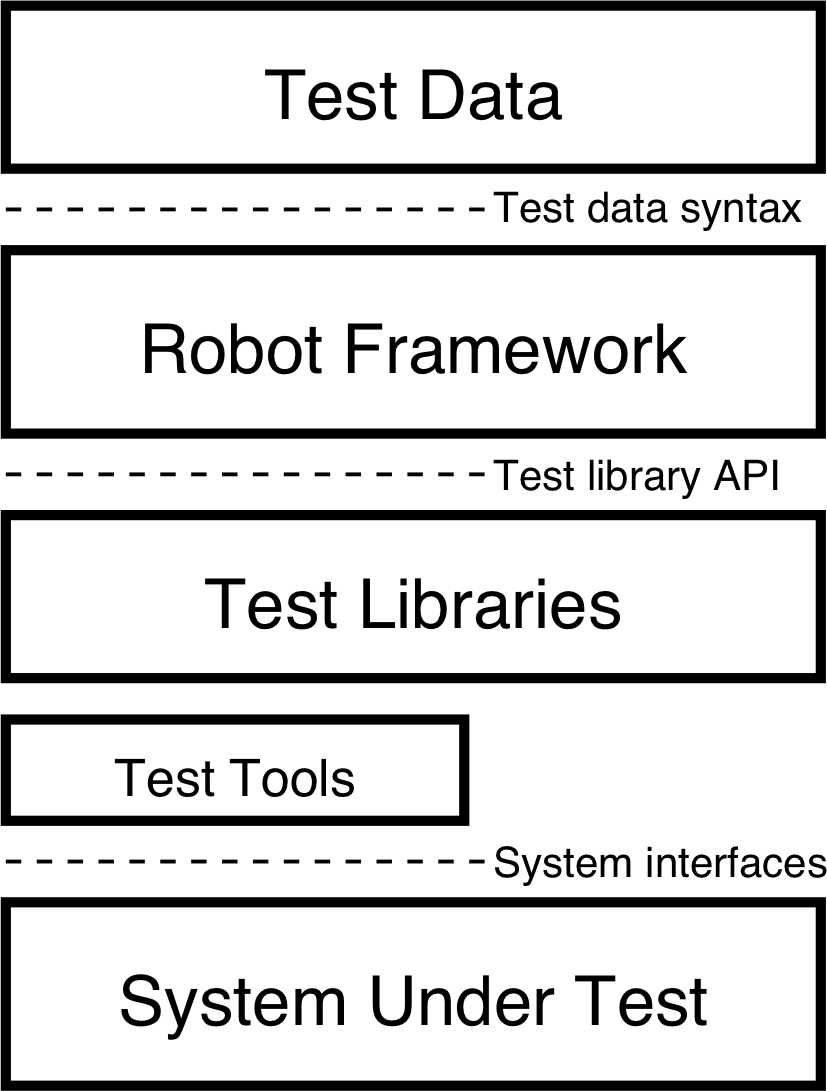
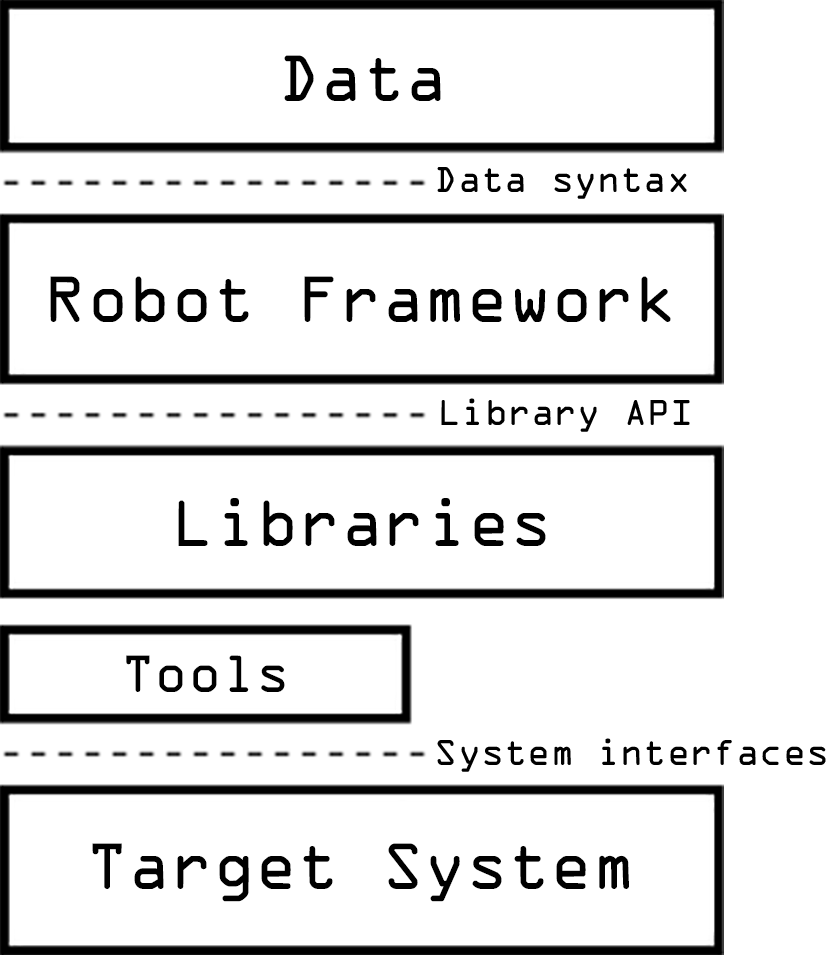
Update robotframework.org to be more about generic automation, less testing bias (#164)
* Better communicate automation, decrease bias on testing

* Use more generic terms in architecture image

* Update example description on tab click

* Update introduction section

* Name examples

* Add RPA example

* Minor edit, combine paragraphs

* Add task example description

* Remove RPA navigation link

* Fix members text alignment on large viewports

* Add consistent big architecture image

* Review updates: Less RPA bias, restore RPA link

diff --git a/sources/src/App.vue b/sources/src/App.vue
@@ -36,7 +36,7 @@ export default {
             text: {
               twitter: true,
               header: "Introduction",
-              text: '<p> <b>Robot Framework</b> is a generic open source automation framework for acceptance testing, acceptance test driven development (ATDD), and robotic process automation (RPA). It has easy-to-use tabular test data syntax and it utilizes the keyword-driven testing approach. Its testing capabilities can be extended by test libraries implemented either with Python or Java, and users can create new higher-level keywords from existing ones using the same syntax that is used for creating test cases. </p> <p> Robot Framework project is hosted on <a href="https://github.com/robotframework/robotframework" target="_blank">GitHub</a> where you can find further documentation, source code, and issue tracker. Downloads are hosted at <a href="https://pypi.python.org/pypi/robotframework" target="_blank">PyPI</a>. The framework has a rich ecosystem around it consisting of various generic <a href="#libraries">test libraries</a> and <a href="#tools">tools</a> that are developed as separate projects. </p> <p> Robot Framework is operating system and application independent. The core framework is implemented using <a href="http://python.org" target="_blank">Python</a> and runs also on <a href="http://jython.org" target="_blank">Jython</a> (JVM) and <a href="http://ironpython.net" target="_blank">IronPython</a> (.NET). </p> <p> Robot Framework itself is open source software released under <a href="http://www.apache.org/licenses/LICENSE-2.0.html" target="_blank">Apache License 2.0</a>, and most of the libraries and tools in the ecosystem are also open source. The framework was initially developed at <a href="http://networks.nokia.com" target="_blank">Nokia Networks</a> and was open sourced in 2008.</p>'
+              text: '<p> <b>Robot Framework</b> is a generic open source automation framework. It can be used for test automation and robotic process automation (RPA). <p> Robot Framework is actively supported, with many industry-leading companies using it in their software development. </p> Robot Framework is open and extensible and can be integrated with virtually any other tool to create powerful and flexible automation solutions. Being open source also means that Robot Framework is free to use without licensing costs. </p> <p> Robot Framework has easy syntax, utilizing human-readable keywords. Its capabilities can be extended by libraries implemented with Python or Java. The framework has a rich ecosystem around it, consisting of <a href="#libraries">libraries</a> and <a href="#tools">tools</a> that are developed as separate projects. </p> <p> Robot Framework project is hosted on <a href="https://github.com/robotframework/robotframework" target="_blank">GitHub</a> where you can find further documentation, source code, and issue tracker. Downloads are hosted at <a href="https://pypi.python.org/pypi/robotframework" target="_blank">PyPI</a>. <p> Robot Framework is operating system and application independent. The core framework is implemented using <a href="http://python.org" target="_blank">Python</a> and also runs on <a href="http://jython.org" target="_blank">Jython</a> (JVM) and <a href="http://ironpython.net" target="_blank">IronPython</a> (.NET). </p> <p> Robot Framework itself is open source software released under <a href="http://www.apache.org/licenses/LICENSE-2.0.html" target="_blank">Apache License 2.0</a>, and most of the libraries and tools in the ecosystem are also open source. The framework was initially developed at <a href="http://networks.nokia.com" target="_blank">Nokia Networks</a> and was open sourced in 2008.</p>'
             }
           }
         },
@@ -52,12 +52,12 @@ export default {
               {
                 header: "CLEAR",
                 text:
-                  '<p> Robot Framework has a modular architecture that can be extended with bundled and self-made <a href="#libraries">test libraries</a>. </p> <p> Test data is defined in files using the syntax shown in the <a href="#examples">examples</a> below. A file containing test cases creates a test suite and placing these files into directories creates a nested structure of test suites. </p>'
+                  '<p> Robot Framework has a modular architecture that can be extended with bundled and self-made <a href="#libraries">libraries</a>. </p> <p> Data is defined in files using the syntax shown in the <a href="#examples">examples</a> below. A file containing tests or tasks creates a suite, and placing these files into directories creates a nested structure of suites. </p>'
               },
               {
                 header: "EASY",
                 text:
-                  "<p> When test execution is started, the framework first parses the test data. It then utilizes keywords provided by the test libraries to interact with the system under test. Libraries can communicate with the system either directly or using other test tools as drivers. </p> <p> Test execution is started from the command line. As a result you get report and log in HTML format as well as an XML output. These provide extensive look into what your system does. </p>"
+                  "<p> When execution is started, the framework first parses the data. It then utilizes keywords provided by the libraries to interact with the target system. Libraries can communicate with the system either directly or using other tools as drivers. </p> <p> Test or task execution is started from the command line. As a result, you get a report and log in HTML format as well as an XML output. These provide an extensive look into what your system does. </p>"
               },
               {
                 header: "MODULAR",
@@ -251,7 +251,7 @@ export default {
             text: {
               header: "Libraries",
               text:
-                '<p> Test libraries provide the actual testing capabilities to Robot Framework by providing keywords. There are several standard libraries that are bundled in with the framework, and galore of separately developed external libraries that can be installed based on your needs. Creating your own test libraries <a href="http://robotframework.org/robotframework/latest/RobotFrameworkUserGuide.html#creating-test-libraries" target="_blank">is a breeze</a>. </p> <p> <a href="https://github.com/robotframework/robotframework.github.com" target="_blank">Let us know</a> if there are useful libraries missing from the list or if a library on the list seems to be unmaintained.</p>'
+                '<p> Libraries provide the actual automation and testing capabilities to Robot Framework by providing keywords. Several standard libraries are bundled in with the framework, and galore of separately developed external libraries that can be installed based on your needs. Creating your own libraries <a href="http://robotframework.org/robotframework/latest/RobotFrameworkUserGuide.html#creating-test-libraries" target="_blank">is a breeze</a>. </p> <p> <a href="https://github.com/robotframework/robotframework.github.com" target="_blank">Let us know</a> if useful libraries are missing from the list or if a library on the list seems to be unmaintained.</p>'
             },
             tabs: [
               {
@@ -269,7 +269,7 @@ export default {
                     href:
                       "http://robotframework.org/robotframework/#standard-libraries",
                     text:
-                      "Provides means for pausing the test execution and getting input from users."
+                      "Provides means for pausing the execution and getting input from users."
                   },
                   {
                     title: "Collections",
@@ -289,7 +289,7 @@ export default {
                     title: "Remote",
                     href: "https://github.com/robotframework/RemoteInterface",
                     text:
-                      "Special library acting as a proxy between Robot Framework and test libraries elsewhere. Actual test libraries can be running on different machines and be implemented using any programming language supporting XML-RPC protocol."
+                      "Special library acting as a proxy between Robot Framework and libraries elsewhere. Actual libraries can be running on different machines and be implemented using any programming language supporting XML-RPC protocol."
                   },
                   {
                     title: "Screenshot",
@@ -665,7 +665,7 @@ export default {
             text: {
               header: "Tools",
               text:
-                '<p> Supporting tools ease everything surrounding tests: editing, running, building and so on. Most of these tools are developed as separate projects, but some are built into the framework itself. </p> <p> <a href="https://github.com/robotframework/robotframework.github.com" target="_blank">Let us know</a> if there are useful tools missing from the list. </p>'
+                '<p> Supporting tools ease automation: editing, running, building and so on. Most of these tools are developed as separate projects, but some are built into the framework itself. </p> <p> <a href="https://github.com/robotframework/robotframework.github.com" target="_blank">Let us know</a> if useful tools are missing from the list. </p>'
             },
             tabs: [
               {
@@ -683,7 +683,7 @@ export default {
                     href:
                       "http://robotframework.org/robotframework/#built-in-tools",
                     text:
-                      "Tool for generating keyword documentation for test libraries and resource files."
+                      "Tool for generating keyword documentation for libraries and resource files."
                   },
                   {
                     title: "Testdoc",
@@ -697,7 +697,7 @@ export default {
                     href:
                       "http://robotframework.org/robotframework/#built-in-tools",
                     text:
-                      "Tool for cleaning up and changing format of Robot Framework test data files."
+                      "Tool for cleaning up and changing format of Robot Framework data files."
                   }
                 ]
               },
@@ -799,7 +799,7 @@ export default {
                     href:
                       "https://wiki.jenkins-ci.org/display/JENKINS/Robot+Framework+Plugin",
                     text:
-                      "Plugin to collect and publish Robot Framework test results in Jenkins."
+                      "Plugin to collect and publish Robot Framework execution results in Jenkins."
                   },
                   {
                     title: "Maven plugin",
@@ -820,7 +820,7 @@ export default {
                     title: "DbBot",
                     href: "https://github.com/robotframework/DbBot",
                     text:
-                      "Tool for serializing Robot Framework test results, i.e. output.xml files, into a SQLite database. It serves a good starting point to create your own reporting and analyzing tools."
+                      "Tool for serializing Robot Framework execution results, i.e. output.xml files, into a SQLite database. It serves a good starting point to create your own reporting and analyzing tools."
                   },
                   {
                     title: "Distbot",
@@ -842,13 +842,13 @@ export default {
                   {
                     title: "Pabot",
                     href: "https://github.com/mkorpela/pabot",
-                    text: "A parallel executor for Robot Framework test cases."
+                    text: "A parallel executor for Robot Framework tests and tasks."
                   },
                   {
                     title: "RFDoc",
                     href: "http://github.com/robotframework/rfdoc",
                     text:
-                      "Web based system for storing and searching Robot Framework test library and resource file documentations."
+                      "Web based system for storing and searching Robot Framework library and resource file documentations."
                   },
                   {
                     title: "Robot Corder",
@@ -906,7 +906,7 @@ export default {
             text: {
               header: "Documentation",
               text:
-                '<p> Want to get started? Looking for a way to do things? Here are the most important documentation resources needed to work with Robot Framework. Notice that individual <a href="#libraries">test libraries</a> and <a href="#tools">tools</a> in the ecosystem have their own documentation that is typically accessed via their project pages. </p> <p> <a href="https://github.com/robotframework/robotframework.github.com" target="_blank">Let us know</a> if there are useful links missing from the list. </p>'
+                '<p> Want to get started? Looking for a way to do things? Here are the most important documentation resources needed to work with Robot Framework. Notice that individual <a href="#libraries">libraries</a> and <a href="#tools">tools</a> in the ecosystem have their own documentation that is typically accessed via their project pages. </p> <p> <a href="https://github.com/robotframework/robotframework.github.com" target="_blank">Let us know</a> if useful links are missing from the list. </p>'
             },
             tabs: [
               {
@@ -1074,7 +1074,7 @@ export default {
             text: {
               header: "Support",
               text:
-                '<p> There are various forums where to ask questions and discuss about Robot Framework and the ecosystem around it in general. There are also several companies around the world that provide paid support, consultation, and training courses related to the framework. </p> <p> <a href="https://github.com/robotframework/robotframework.github.com" target="_blank">Let us know</a> if there is a support forum or a company offering related services you would like to be added here. </p>'
+                '<p> There are various forums where to ask questions and discuss Robot Framework and the ecosystem around it in general. Several companies around the world provide paid support, consultation, and training courses related to the framework. </p> <p> <a href="https://github.com/robotframework/robotframework.github.com" target="_blank">Let us know</a> if there is a support forum or a company offering related services you would like to be added here. </p>'
             },
             tabs: [
               {

diff --git a/sources/src/components/pages/Examples.vue b/sources/src/components/pages/Examples.vue
@@ -5,10 +5,10 @@
     <div class="row">
     
       <div class="col-md-12 order-md-2 order-lg-1">
-          <b-tabs cards pills class="nav-fill card " v-model="tabIndex">
+          <b-tabs cards pills class="nav-fill card " v-model="tabIndex" @input="changeTabText(tabIndex)">
 
 
-          <b-tab title="EXAMPLE 1" @click="changeTabText(tabIndex)">
+          <b-tab title="Test case">
             <pre class="highlight"><span class="gh">*** Settings ***</span><span class="p"></span>
 <span class="kn">Documentation</span><span class="p">     </span><span class="s">A test suite with a single test for valid login.</span><span class="p"></span>
 <span class="p">...</span>
@@ -26,7 +26,7 @@
 <span class="p">    [</span><span class="kn">Teardown</span><span class="p">]    </span><span class="nf">Close Browser</span><span class="p"></span>
                     </pre>
           </b-tab>
-          <b-tab title="EXAMPLE 2" @click="changeTabText(tabIndex)">
+          <b-tab title="Report and log">
             <div class="row">
               <div class="col-xl-6 col-md-12">
                 <b-img v-b-modal.modal2 class="img-fluid" :src="require('@/assets/img/report.png')" id="report"/>
@@ -44,7 +44,7 @@
           </b-tab>
 
 
-            <b-tab title="EXAMPLE 3" @click="changeTabText(tabIndex)">
+            <b-tab title="Keywords">
             <div class="row">
               <div class="col-lg-12">
            <pre class="highlight"><span class="gh">*** Settings ***</span><span class="p"></span>
@@ -120,7 +120,7 @@
                   </pre></div></div>
           </b-tab>
 
-          <b-tab title="EXAMPLE 4" @click="changeTabText(tabIndex)">
+          <b-tab title="Library">
             <pre class="highlight"><span class="kn">from</span> <span class="nn">calculator</span> <span class="kn">import</span> <span class="n">Calculator</span><span class="p">,</span> <span class="n">CalculationError</span>
 
 <span class="k">class</span> <span class="nc">CalculatorLibrary</span><span class="p">(</span><span class="nb">object</span><span class="p">):</span>
@@ -149,7 +149,7 @@
                     </pre>
           </b-tab>
 
-          <b-tab title="EXAMPLE 5" @click="changeTabText(tabIndex)">
+          <b-tab title="Template">
             <pre class="highlight"><span class="gh">*** Settings ***</span><span class="p"></span>
 <span class="kn">Test Template</span><span class="p">     </span><span class="nf">Calculate</span><span class="p"></span>
 <span class="kn">Library</span><span class="p">           </span><span class="nn">CalculatorLibrary</span><span class="p"></span>
@@ -186,7 +186,7 @@
           </b-tab>
 
 
-          <b-tab title="EXAMPLE 6" @click="changeTabText(tabIndex)">
+          <b-tab title="Gherkin">
             <pre class="highlight"><span class="gh">*** Settings ***</span><span class="p"></span>
 <span class="kn">Library</span><span class="p">           </span><span class="nn">CalculatorLibrary</span><span class="p"></span>
 
@@ -211,6 +211,21 @@
 <span class="p">    </span><span class="nf">Result should be</span><span class="p">    ${</span><span class="nv">result</span><span class="p">}</span>
                     </pre>
           </b-tab>
+
+          <b-tab title="Task (RPA)">
+            <pre class="highlight"><span class="gh">*** Settings ***</span><span class="p"></span>
+<span class="kn">Documentation</span><span class="p">     </span><span class="s">Notify HR of missing hours at the end of the month.</span><span class="p"></span>
+
+<span class="gh">*** Tasks ***</span><span class="p"></span>
+<span class="gu">Notify HR of missing hours</span><span class="p"></span>
+<span class="p">    </span><span class="nf">Log in to time-tracking system</span><span class="p"></span>
+<span class="p">    </span><span class="nf">Collect tracked hours for current month</span><span class="p"></span>
+<span class="p">    </span><span class="nf">Compare expected hours to tracked hours</span><span class="p"></span>
+<span class="p">    </span><span class="nf">Notify HR if hours are missing</span><span class="p"></span>
+<span class="p">    [</span><span class="kn">Teardown</span><span class="p">]    </span><span class="nf">Log out of time-tracking system</span><span class="p"></span>
+                    </pre>
+          </b-tab>
+
         </b-tabs>
         </div>
   </div>
@@ -256,6 +271,10 @@ export default {
         {
           text:
             '<p> Want to do <a target="_blank" href="https://github.com/cucumber/cucumber/wiki/Gherkin">Gherkin-style</a> behaviour-driven test development made famous by <a href="http://cukes.info/" target="_blank">Cucumber</a>? No problem! That\'s baked in! </p><p> </p><p> Here is another example from our <a href="https://github.com/robotframework/RobotDemo" target="_blank">Robot Demo</a> that shows how you can level the expressiveness of Given-When-Then in Robot Framework. </p>'
+        },
+        {
+          text:
+            '<p> Robotic process automation (RPA) tasks utilize the same Robot syntax as test cases, with some minor differences. Instead of <i>Test Cases</i>, you can use <i>Tasks</i>. The report and log will also use "task" instead of "test". </p> <p> Task keywords can be written in plain English. This makes communicating the intent of the tasks effortless. </p>'
         }
       ]
     };

diff --git a/sources/src/components/TextBlock.vue b/sources/src/components/TextBlock.vue
@@ -14,16 +14,18 @@
       </div>
     </div>
     <div v-if="members.length" class="row">
-        <div class="col-sm-12 pl-5 pr-5 row">
-          <div v-html="data.membersText" />
-          <div v-for="(member, index) in members" :key="index" class="col-lg-1 col-3 p-0">
-            <div class="text-center p-1 mb-0" style="height:100px;background-color:#fff; display: flex; flex-direction: column; justify-content: center;">
-              <div>
-                <a :href="member.href" target="blank"><img class="img-fluid pb-2 user-image" :src="member.img"/></a>
-              </div>
+      <div class="col-sm-12 pl-5 pr-5 row">
+        <div v-html="data.membersText" />
+      </div>
+      <div class="col-sm-12 pl-5 pr-5 row">
+        <div v-for="(member, index) in members" :key="index" class="col-lg-1 col-3 p-0">
+          <div class="text-center p-1 mb-0" style="height:100px;background-color:#fff; display: flex; flex-direction: column; justify-content: center;">
+            <div>
+              <a :href="member.href" target="blank"><img class="img-fluid pb-2 user-image" :src="member.img"/></a>
             </div>
           </div>
         </div>
+      </div>
     </div>
   </div>
 </template>
